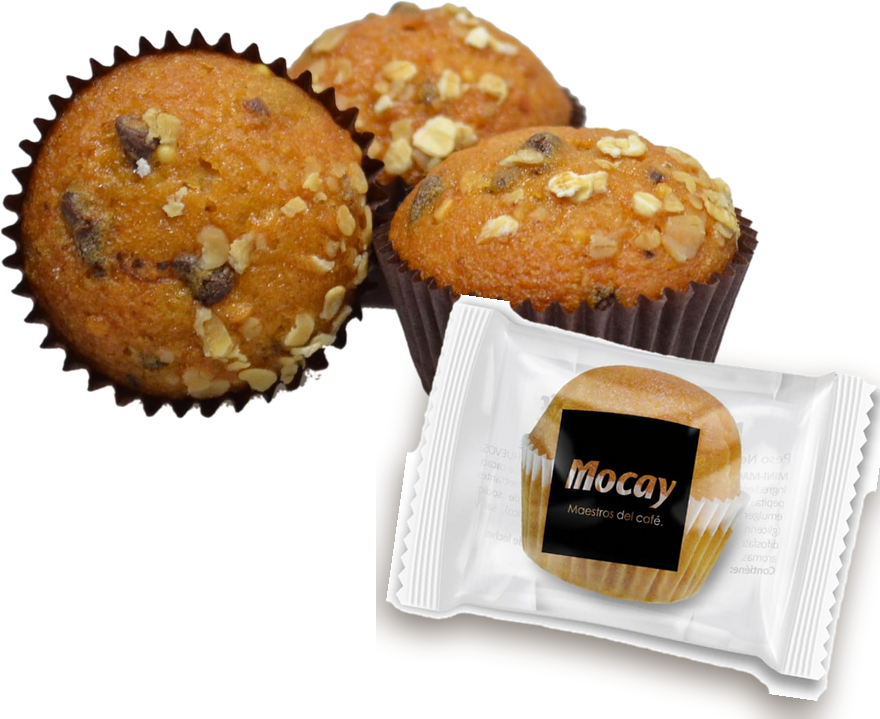
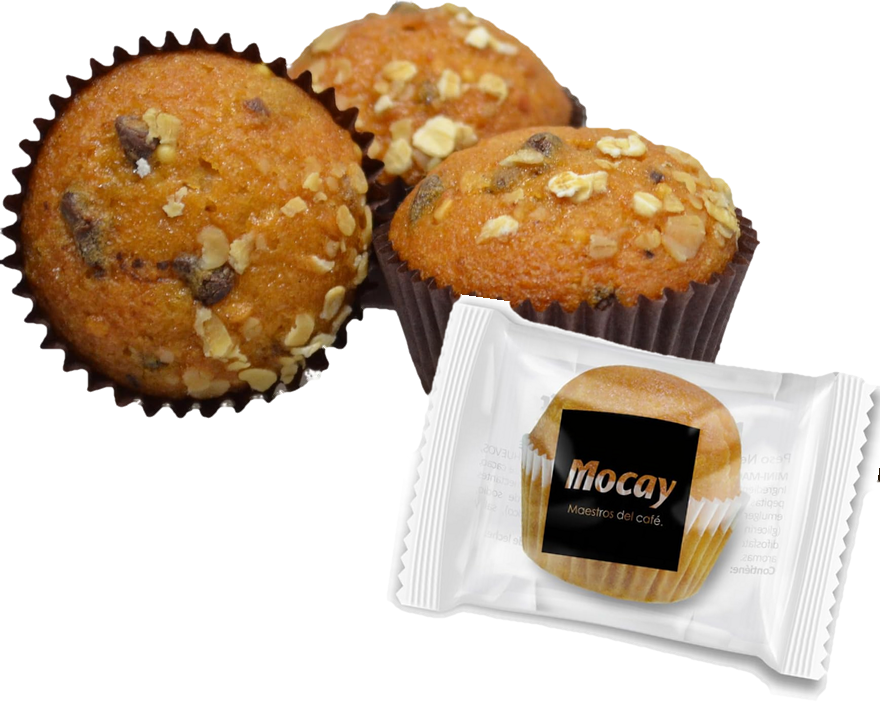
Café Mocay: limpiar la foto PNG de las mini muffins (sin halo oscuro ni sombra horneada)
Claude-Session: https://claude.ai/code/session_015dR32ERFsRyYNENrSccNtX

diff --git a/cafe-mocay.html b/cafe-mocay.html
@@ -209,7 +209,7 @@
             <li>Azúcar y edulcorantes</li><li>Leche condensada</li><li>Galletas, muffins y palmeritas</li><li>Tazas y vajilla</li><li>Vasos para llevar</li>
           </ul>
         </div>
-        <div class="m-compl-figs"><figure class="m-compl-fig"><img src="assets/mocay/tazas-infusion.png" width="680" height="220" alt="Tazas de la vajilla Mocay" loading="lazy" decoding="async"><figcaption>Vajilla Mocay</figcaption></figure><div class="m-compl-azucares m-compl-dulces" aria-label="Complementos Mocay"><figure class="m-wide m-premium"><img src="assets/mocay/mocay-taza-premium.png" width="574" height="416" alt="Taza y plato de la gama Premium de Mocay, en blanco y negro con dibujo geométrico" loading="lazy" decoding="async"><figcaption>Vajilla Mocay · gama Premium<small>Espresso 60 ml · doble espresso 125 ml · cappuccino 200 ml</small></figcaption></figure><figure><img src="assets/mocay/mocay-leche-condensada-recorte.png" width="347" height="383" alt="Bote y sobre de leche condensada Mocay, con un café bombón en la etiqueta" loading="lazy" decoding="async"><figcaption>Leche condensada Mocay</figcaption></figure><figure><img src="assets/mocay/mocay-vasos-llevar-recorte.png" width="398" height="332" alt="Vasos de café Mocay para llevar" loading="lazy" decoding="async"><figcaption>Vasos Mocay para llevar</figcaption></figure><figure class="is-card"><img src="assets/mocay/mocay-mini-muffins.png" width="880" height="719" alt="Mini muffins Mocay, sueltos y envueltos individualmente" loading="lazy" decoding="async"><figcaption>Mini muffins Mocay</figcaption></figure><figure><img src="assets/mocay/mocay-palmeritas-recorte.png" width="377" height="288" alt="Palmeritas de hojaldre Mocay" loading="lazy" decoding="async"><figcaption>Palmeritas Mocay</figcaption></figure><figure><img src="assets/mocay/mocay-cositas-cookies-recorte.png" width="406" height="201" alt="Galletas artesanas Cositas Cookies Mocay en sobre individual: avellana, naranja y chocolate, manzana" loading="lazy" decoding="async"><figcaption>Galletas artesanas Cositas Cookies Mocay</figcaption></figure><figure><img src="assets/mocay/mocay-galletas-lotus-recorte.png" width="381" height="160" alt="Galleta caramelizada Lotus Biscoff Mocay en envoltorio individual" loading="lazy" decoding="async"><figcaption>Galleta Lotus Mocay</figcaption></figure></div></div>
+        <div class="m-compl-figs"><figure class="m-compl-fig"><img src="assets/mocay/tazas-infusion.png" width="680" height="220" alt="Tazas de la vajilla Mocay" loading="lazy" decoding="async"><figcaption>Vajilla Mocay</figcaption></figure><div class="m-compl-azucares m-compl-dulces" aria-label="Complementos Mocay"><figure class="m-wide m-premium"><img src="assets/mocay/mocay-taza-premium.png" width="574" height="416" alt="Taza y plato de la gama Premium de Mocay, en blanco y negro con dibujo geométrico" loading="lazy" decoding="async"><figcaption>Vajilla Mocay · gama Premium<small>Espresso 60 ml · doble espresso 125 ml · cappuccino 200 ml</small></figcaption></figure><figure><img src="assets/mocay/mocay-leche-condensada-recorte.png" width="347" height="383" alt="Bote y sobre de leche condensada Mocay, con un café bombón en la etiqueta" loading="lazy" decoding="async"><figcaption>Leche condensada Mocay</figcaption></figure><figure><img src="assets/mocay/mocay-vasos-llevar-recorte.png" width="398" height="332" alt="Vasos de café Mocay para llevar" loading="lazy" decoding="async"><figcaption>Vasos Mocay para llevar</figcaption></figure><figure class="is-card"><img src="assets/mocay/mocay-mini-muffins.png?v=2" width="880" height="719" alt="Mini muffins Mocay, sueltos y envueltos individualmente" loading="lazy" decoding="async"><figcaption>Mini muffins Mocay</figcaption></figure><figure><img src="assets/mocay/mocay-palmeritas-recorte.png" width="377" height="288" alt="Palmeritas de hojaldre Mocay" loading="lazy" decoding="async"><figcaption>Palmeritas Mocay</figcaption></figure><figure><img src="assets/mocay/mocay-cositas-cookies-recorte.png" width="406" height="201" alt="Galletas artesanas Cositas Cookies Mocay en sobre individual: avellana, naranja y chocolate, manzana" loading="lazy" decoding="async"><figcaption>Galletas artesanas Cositas Cookies Mocay</figcaption></figure><figure><img src="assets/mocay/mocay-galletas-lotus-recorte.png" width="381" height="160" alt="Galleta caramelizada Lotus Biscoff Mocay en envoltorio individual" loading="lazy" decoding="async"><figcaption>Galleta Lotus Mocay</figcaption></figure></div></div>
       </div>
     </section>
 
